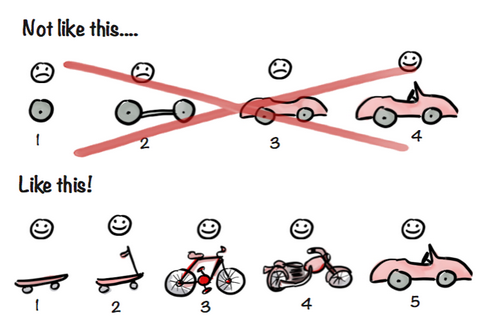
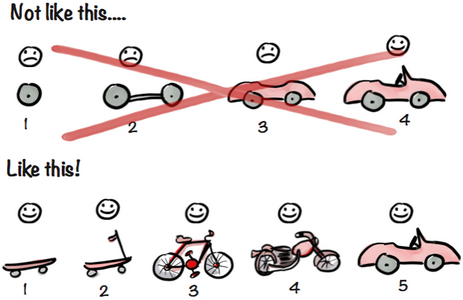
feat(mvp): add tags and crop image

diff --git a/practices/mvp.md b/practices/mvp.md
@@ -1,10 +1,15 @@
 ---
-slug: "mvp"
+slug: "minimum-viable-product"
 aspect: "architecture"
 stages:
   - "research"
 short_description: The Minimum Viable Product (MVP) is a scope of a product with the smallest possible functionality which is able to provide meaningful feedback from users.
 tags:
+  - feedback
+  - development
+  - mvp
+  - value proposition
+  - ux
 keywords:
   - lean
   - lean startup
@@ -55,27 +60,22 @@ The key idea of MVP is that you produce the MVP version to customers and observe
 
 Necessary steps to build an MVP:
 
-1. Problem
-
+1. **Problem**
    Clarify what problem you solve and for whom. Start by putting yourself in customer’s shoes: “Why do I need this product?” and “How it can help me?”
    Tip: A practice of Value Proposition Canvas or Design sprint can help you.
 
-2. Competitor analysis
-
+2. **Competitor analysis**
    Do not forget to research what your competitors offer and how can you make your idea unique.
    Tip: There are various tools available that can help you investigate your competitor's websites or apps. One of them is Similar Web which is free and allows you to get some insights about their monthly traffic, sources of traffic, geographical location of a user and other helpful information.
 
-3. User journey
-
+3. **User journey**
    A user journey is a series of steps representing a scenario in which a user might interact with the product you are designing. You should think less about particular features and concentrate more on basic activities, such as “find T-shirt” or “receive orders”. These are the types of goals your end-users will have when they use your product.
 
-4. Prioritized list of features
-
+4. **Prioritized list of features**
    Create a list of all necessary features for each goal, prioritize them and categorize them based on priority, for example, “must-have”, “nice-to-have” and “don’t care”. Maybe it will help you if you ask yourself questions, such as “What do my customers want?” or “Do I offer them something beneficial?”
    Tip: If you want to see how your future product will look, you can even create a wireframe or clickable prototype of your MVP if possible.
 
-5. Build, measure, learn
-
+5. **Build, measure, learn**
    After the completion of product development, the product needs to be tested. Collect the feedback from the users, measure the quality and learn, then start improving your product. The process goes on until it is finalized.
 
 ![MVP Cycle](/files/mvp_cycle.png)
